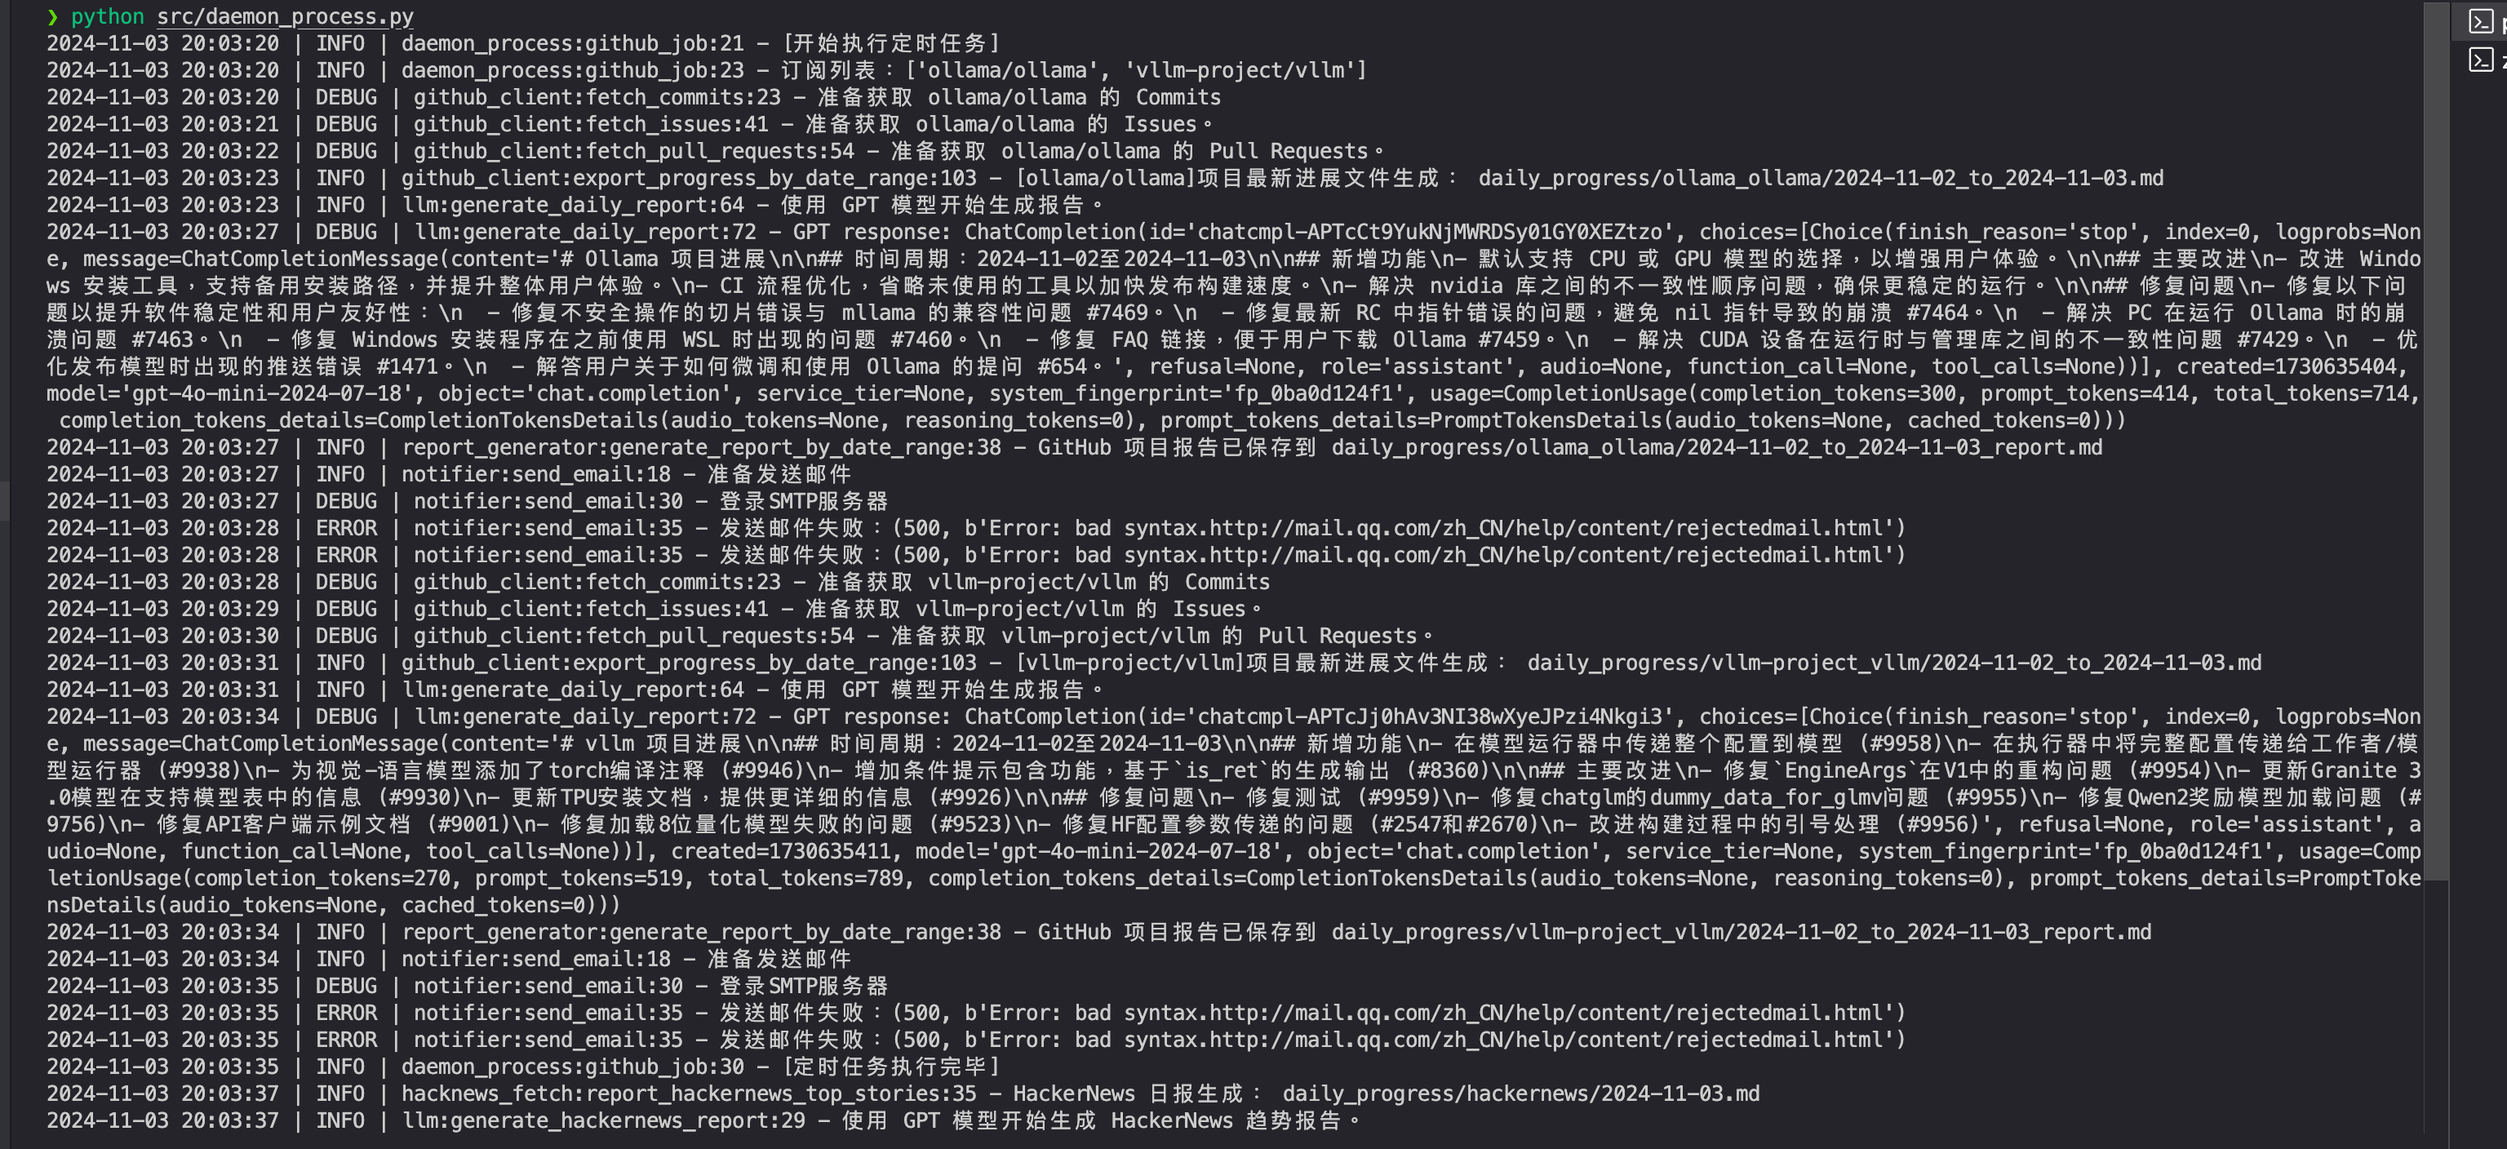
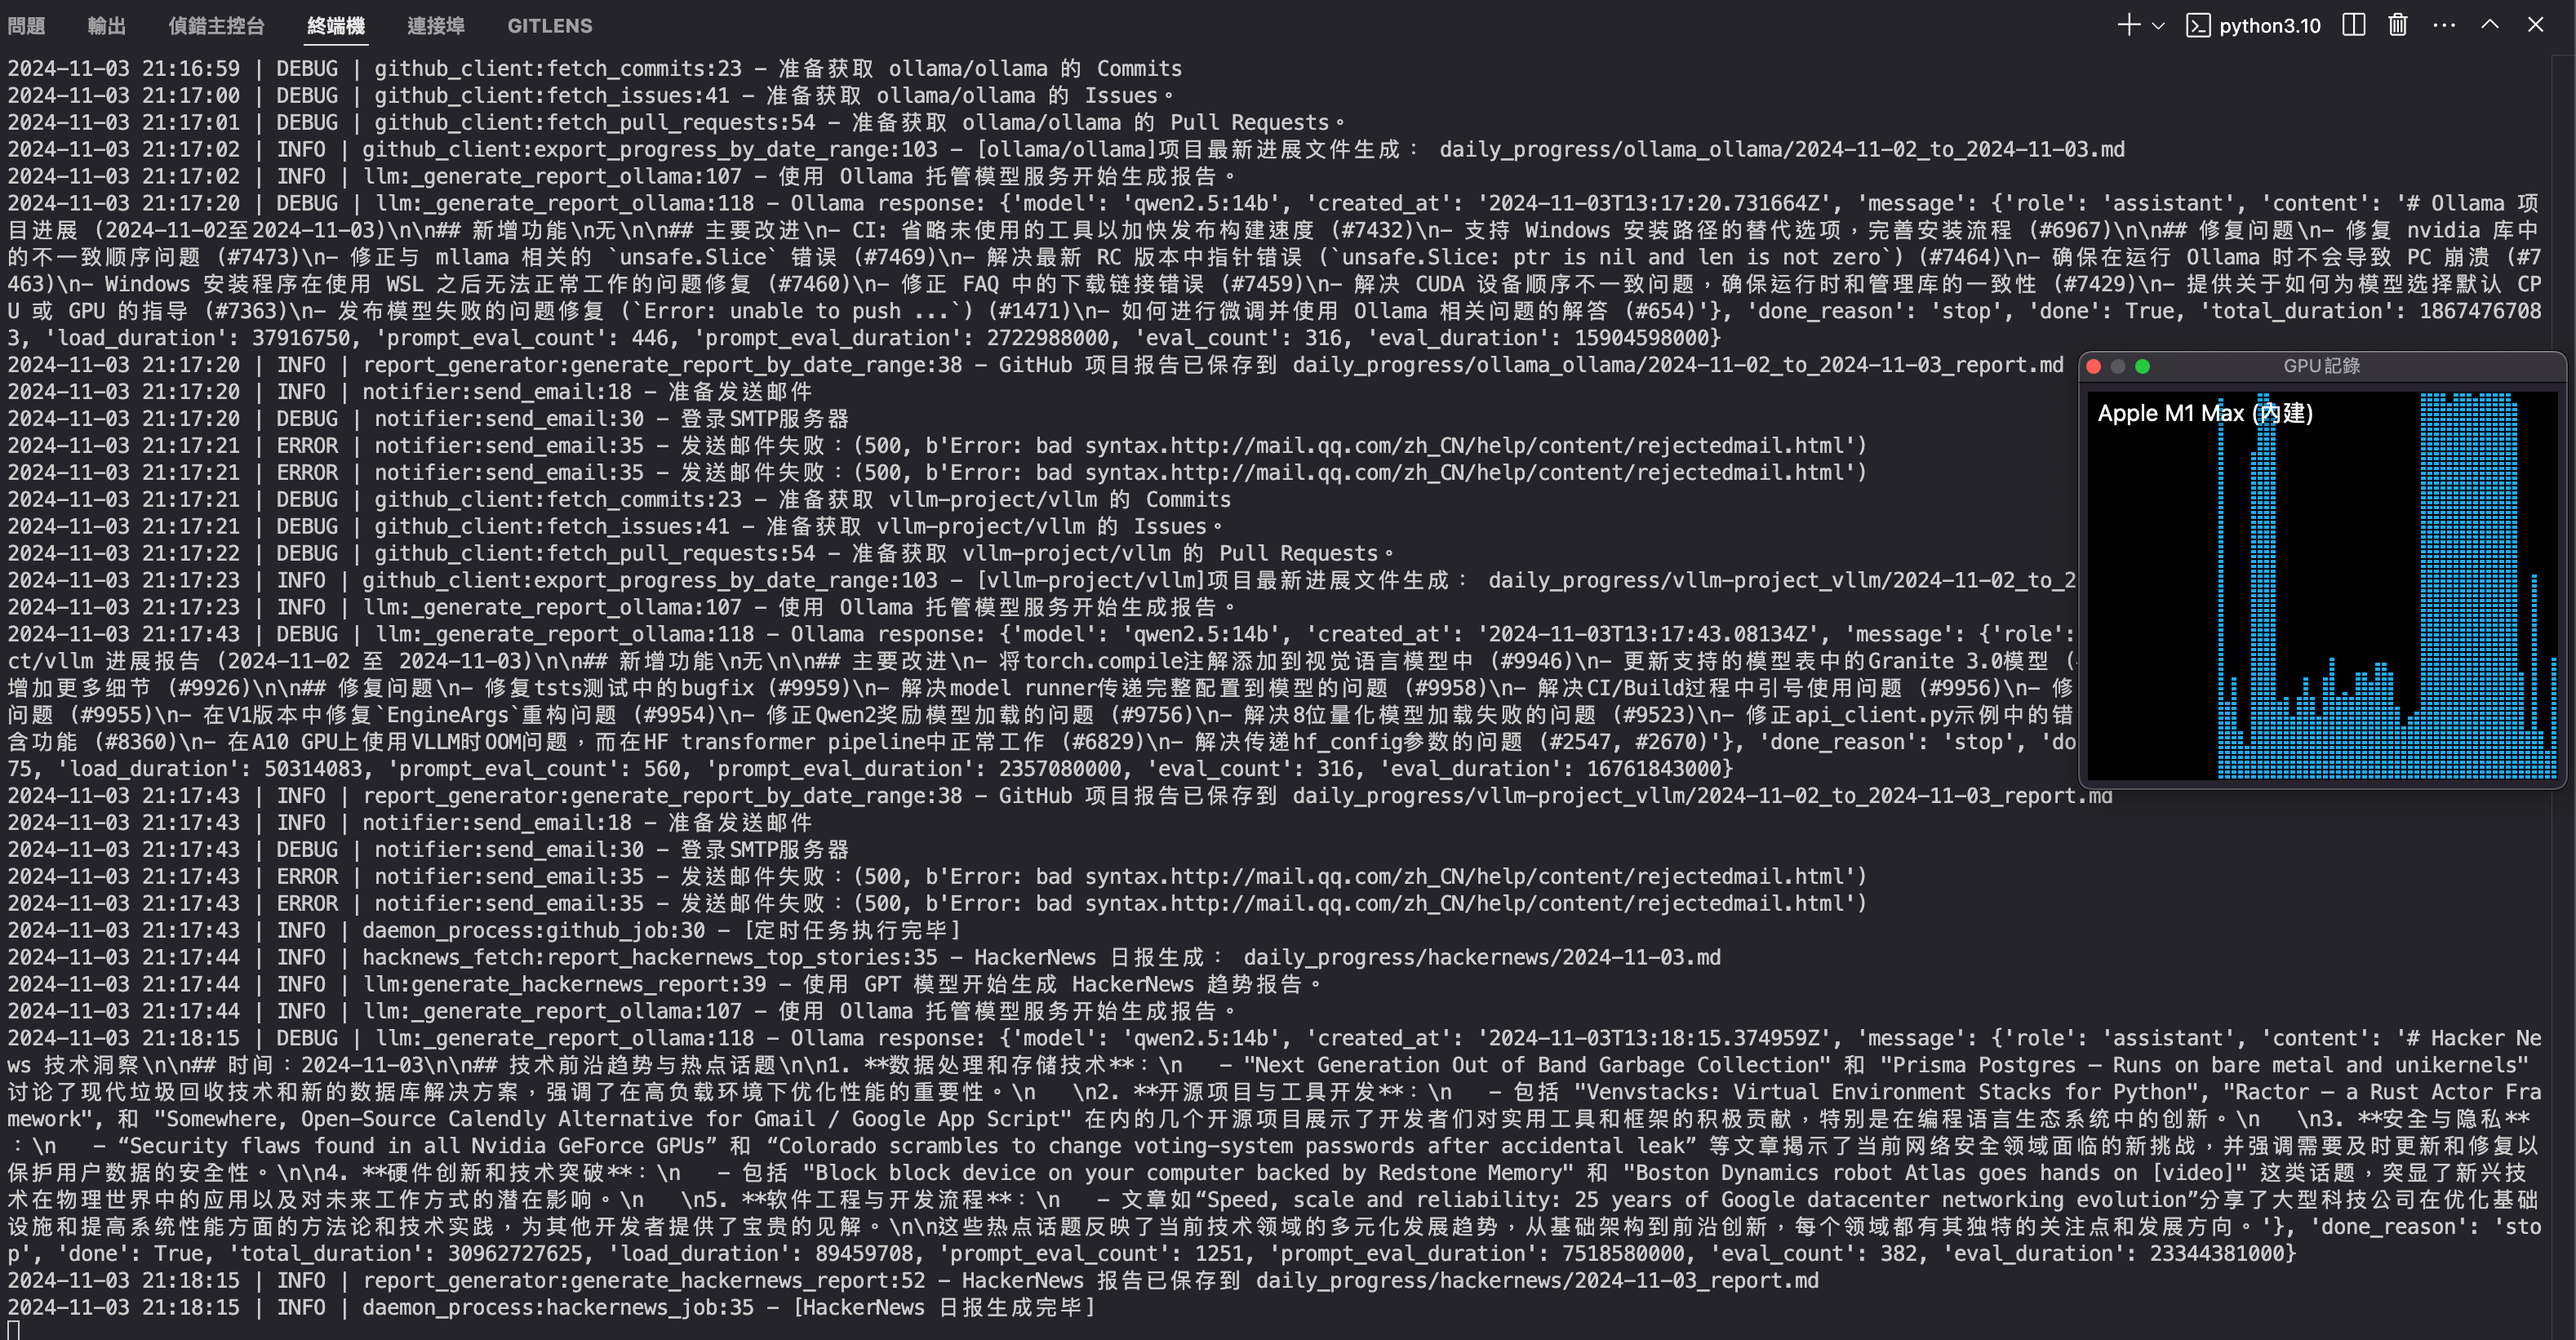
feat: homework_ch6

diff --git a/src/llm.py b/src/llm.py
@@ -18,10 +18,32 @@ class LLM:
             self.api_url = config.ollama_api_url  # 设置Ollama API的URL
         else:
             raise ValueError(f"Unsupported model type: {self.model}")  # 如果模型类型不支持，抛出错误
-        
-        # 从TXT文件加载系统提示信息
-        with open("prompts/report_prompt.txt", "r", encoding='utf-8') as file:
-            self.system_prompt = file.read()
+    def generate_hackernews_report(self, markdown_content, dry_run=False):
+        # 从prompt.txt文件读取系统提示词
+        with open("prompts/hacknews_prompt.txt", "r", encoding='utf-8') as f:
+            system_prompt = f.read()
+
+        # 构建提示信息
+        messages = [
+            {"role": "system", "content": system_prompt},
+            {"role": "user", "content": markdown_content},
+        ]
+
+        if dry_run:
+            LOG.info("Dry run mode enabled. Saving prompt to file.")
+            with open("daily_progress/hackernews/prompt.txt", "w+") as f:
+                json.dump(messages, f, indent=4, ensure_ascii=False)
+            LOG.debug("Prompt已保存到 daily_progress/hackernews/prompt.txt")
+            return "DRY RUN"
+
+        LOG.info("使用 GPT 模型开始生成 HackerNews 趋势报告。")
+
+        if self.model == "openai":
+            return self._generate_report_openai(messages)
+        elif self.model == "ollama":
+            return self._generate_report_ollama(messages)
+        else:
+            raise ValueError(f"Unsupported model type: {self.model}")
 
     def generate_daily_report(self, markdown_content, dry_run=False):
         """
@@ -31,6 +53,9 @@ class LLM:
         :param dry_run: 如果为True，提示信息将保存到文件而不实际调用模型。
         :return: 生成的报告内容或"DRY RUN"字符串。
         """
+        # 从TXT文件加载系统提示信息
+        with open("prompts/report_prompt.txt", "r", encoding='utf-8') as file:
+            self.system_prompt = file.read()
         # 准备消息列表，包含系统提示和用户内容
         messages = [
             {"role": "system", "content": self.system_prompt},

diff --git a/homework.md b/homework.md
@@ -1,15 +1,19 @@
 # 作业要求
 
-在 GitHubSentinel v0.5 基础上，扩展实现 Hacker News 趋势报告生成。
+在 GitHubSentinel v0.5 基础上，扩展实现 Hacker News 趋势报告生成。实现优先级：Daemon（Required） > Graido > Command
 
-实现优先级：Daemon（Required） > Graido > Command
+[可选] 扩展 GitHubSentinel v0.6，使用 Ollama 私有化部署的大模型服务，完成作业 1
+
+## 0. 环境准备
+
+- 选用 ollama 0.3.14 版本
+- 本地化部署 qwen2.5:14b Q4_K_M 量化模型
 
 ## 1. Daemon
 
 在 [daemon_process.py](src/daemon_process.py) 中添加 Hacker News 日报生成任务。
 
 ![alt text](imgs/daemon.png)
-
 
 ## 2. Gradio
 
